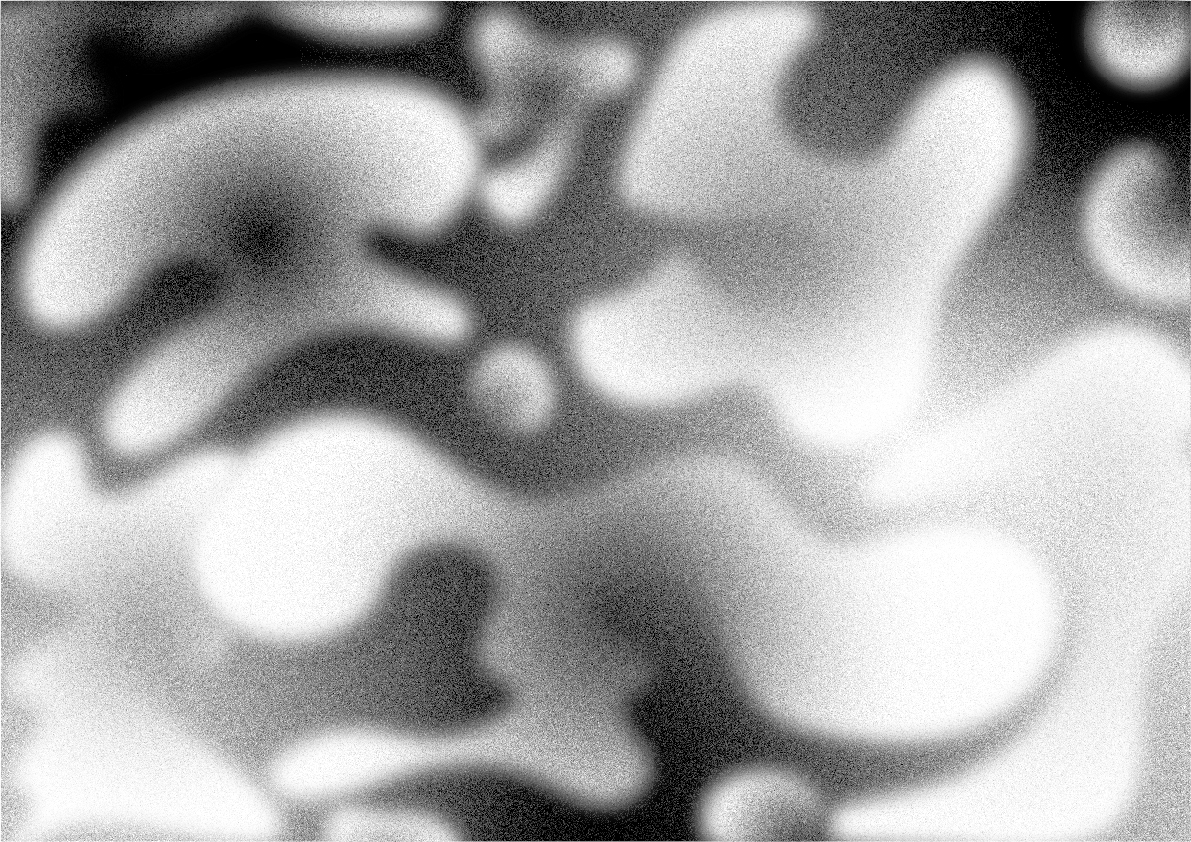
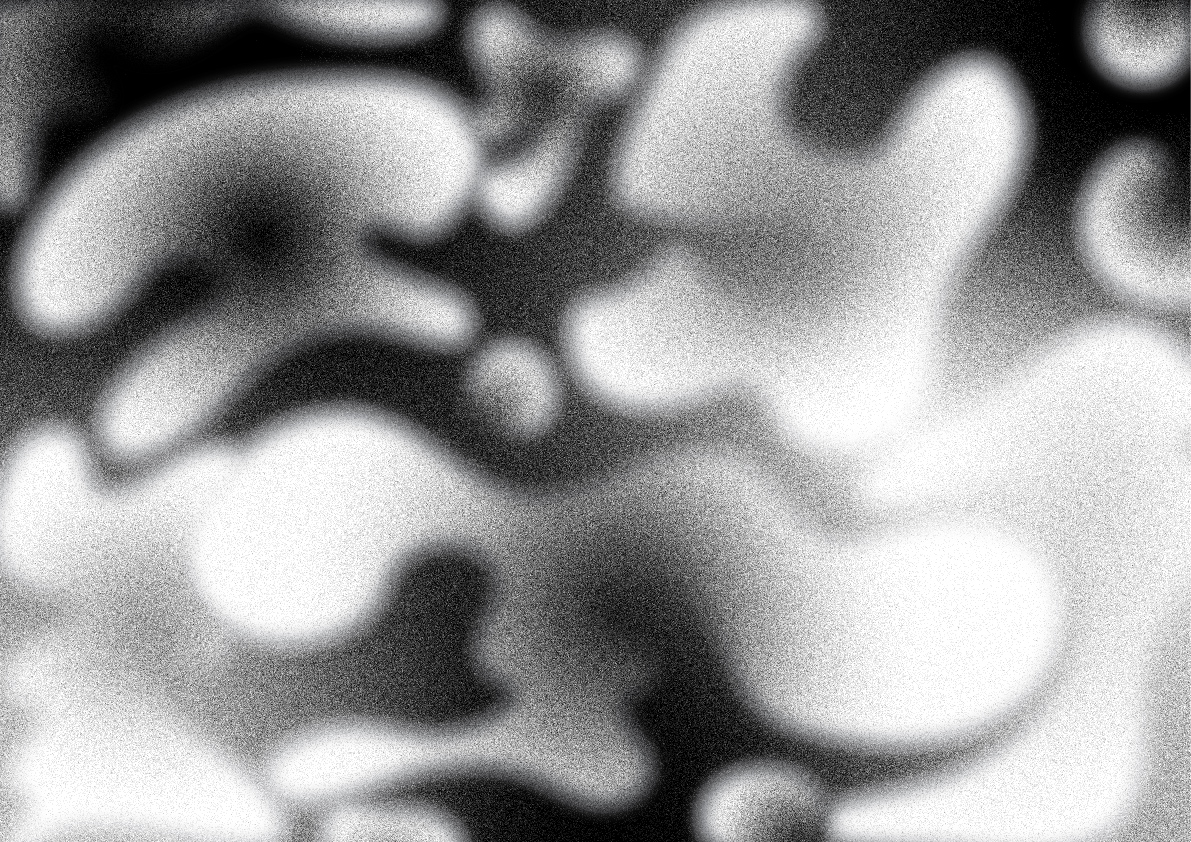
change

diff --git a/style.css b/style.css
@@ -109,7 +109,7 @@ html {
   width: 99.1%;
   height: 30vh;
   position: center center;
-  background-image: url(../simonida_savic/images/mushies.png) no-repeat;
+  background-image: url(../simonida_savic/images/mushies.jpg) no-repeat;
   background-size: cover;
   /* filter: (100%);
   -webkit-filter: rgb(106, 99, 97); */

diff --git a/index.html b/index.html
@@ -19,7 +19,7 @@
 
 <body>
     <main>
-        <div class="banner" style="background-image: url('/images/mushies.png')">
+        <div class="banner" style="background-image: url('/images/mushies.jpg')" >
         </div>
         <div id="box_1">
             <div class="video-container">
